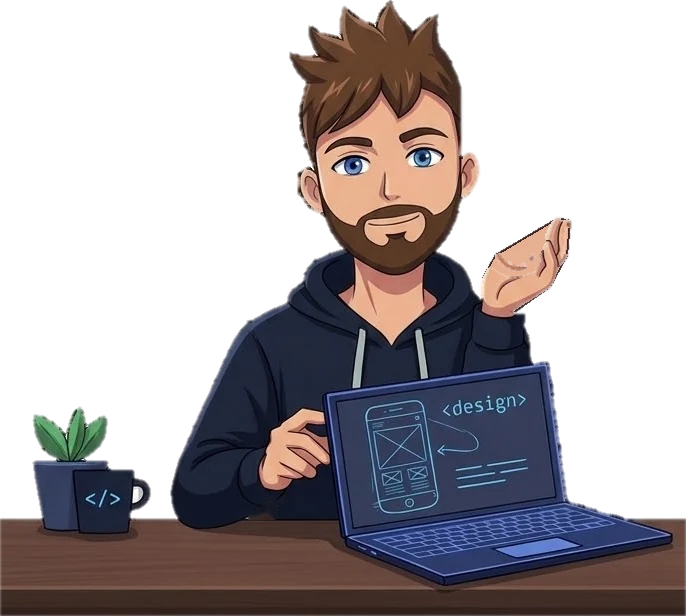
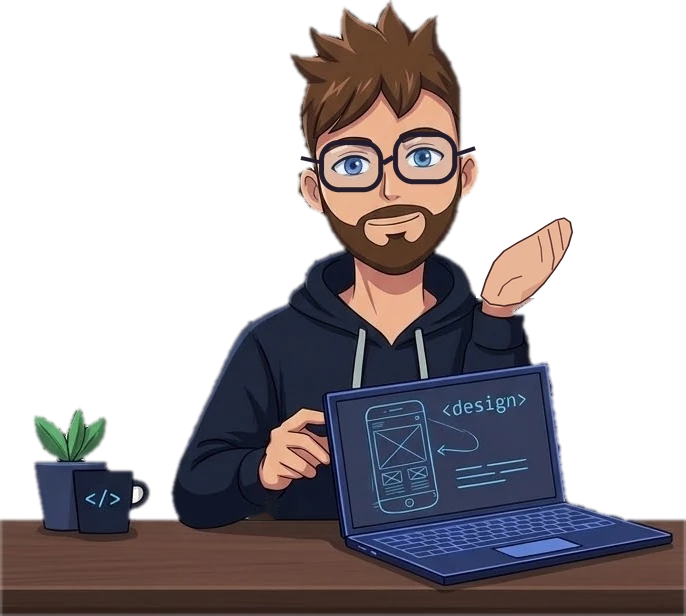
Hero: character closer to text, glasses, redrawn hand, bouncing JK badge
Claude-Session: https://claude.ai/code/session_01Ksp8WxzyHWP4qtY2hiAPaY

diff --git a/public/index.html b/public/index.html
@@ -332,11 +332,19 @@ header .wrap { display: flex; align-items: center; justify-content: space-betwee
 @media (prefers-reduced-motion: reduce) { .nextbtn svg, .nextbtn[data-mode="up"] svg { animation: none; } }
 /* hero character */
 .hero-char { display: none; }
-.hero-char img { display: block; width: 100%; height: auto; filter: drop-shadow(0 0 40px rgba(47,91,255,.45)); }
+.hero-char img { display: block; width: 100%; height: auto; }
+.hero-char::before { content: ""; position: absolute; inset: -10% -6% 0; background: radial-gradient(closest-side, rgba(47,91,255,.4), transparent 75%); }
+.hero-char img { position: relative; }
+.jk { position: absolute; left: 72%; top: 12%; width: 14%; aspect-ratio: 1; z-index: 2; animation: jkb 1.9s cubic-bezier(.45,.05,.35,1) infinite; }
+.jk span { display: grid; place-items: center; width: 100%; height: 100%; border-radius: 28%; color: #fff; font: 800 clamp(18px, 2.6vw, 40px)/1 Inter, system-ui, sans-serif; letter-spacing: -.04em; background: linear-gradient(135deg, #52e0ff, #3a6bff 55%, #2a3fd6); box-shadow: 0 10px 28px rgba(47,91,255,.6), inset 0 2px 0 rgba(255,255,255,.45), inset 0 -4px 8px rgba(10,20,90,.35); text-shadow: 0 2px 6px rgba(10,20,90,.5); transform: rotate(-8deg); }
+.jk::after { content: ""; position: absolute; left: 12%; right: 12%; bottom: -34%; height: 10%; border-radius: 50%; background: rgba(0,0,0,.35); filter: blur(3px); animation: jks 1.9s cubic-bezier(.45,.05,.35,1) infinite; }
+@keyframes jkb { 0%, 100% { transform: translateY(0) scale(1, 1); } 45% { transform: translateY(-16px) scale(.97, 1.04); } 90% { transform: translateY(0) scale(1.06, .92); } }
+@keyframes jks { 0%, 100% { transform: scale(1); opacity: .5; } 45% { transform: scale(.7); opacity: .25; } }
+@media (prefers-reduced-motion: reduce) { .jk, .jk::after { animation: none; } }
 @media (min-width: 1000px) and (hover: hover) {
   .hero-grid { position: relative; }
-  .hero-char { display: block; position: absolute; right: calc(50% - 50vw); bottom: -28px; width: min(44vw, calc((100vh - 150px) * 1.1)); z-index: 0; pointer-events: none;
-    -webkit-mask-image: linear-gradient(90deg, transparent 0, #000 22%); mask-image: linear-gradient(90deg, transparent 0, #000 22%); }
+  .hero-char { display: block; position: absolute; right: clamp(24px, 7vw, 150px); bottom: -28px; width: min(37vw, calc((100vh - 150px) * 1.05)); z-index: 0; pointer-events: none; }
+  .hero-char img { -webkit-mask-image: linear-gradient(90deg, transparent 0, #000 20%, #000 88%, transparent 100%); mask-image: linear-gradient(90deg, transparent 0, #000 20%, #000 88%, transparent 100%); }
   .hero-grid .copy { position: relative; z-index: 1; }
 }
 /* About illustration */
@@ -528,7 +536,7 @@ header .wrap { display: flex; align-items: center; justify-content: space-betwee
           <a class="btn ghost" href="#kontakt" data-cs="Napiš mi">Napíš mi</a>
         </div>
       </div>
-      <div class="hero-char" aria-hidden="true"><img src="img/char.webp" alt="" width="686" height="616" fetchpriority="high"></div>
+      <div class="hero-char" aria-hidden="true"><img src="img/char.webp?v=2" alt="" width="686" height="616" fetchpriority="high"><div class="jk"><span>JK</span></div></div>
     </div>
     <div class="barsl" role="region" aria-roledescription="carousel" aria-label="Projekty">
       <div class="slider"><div class="track" id="track"></div></div>
